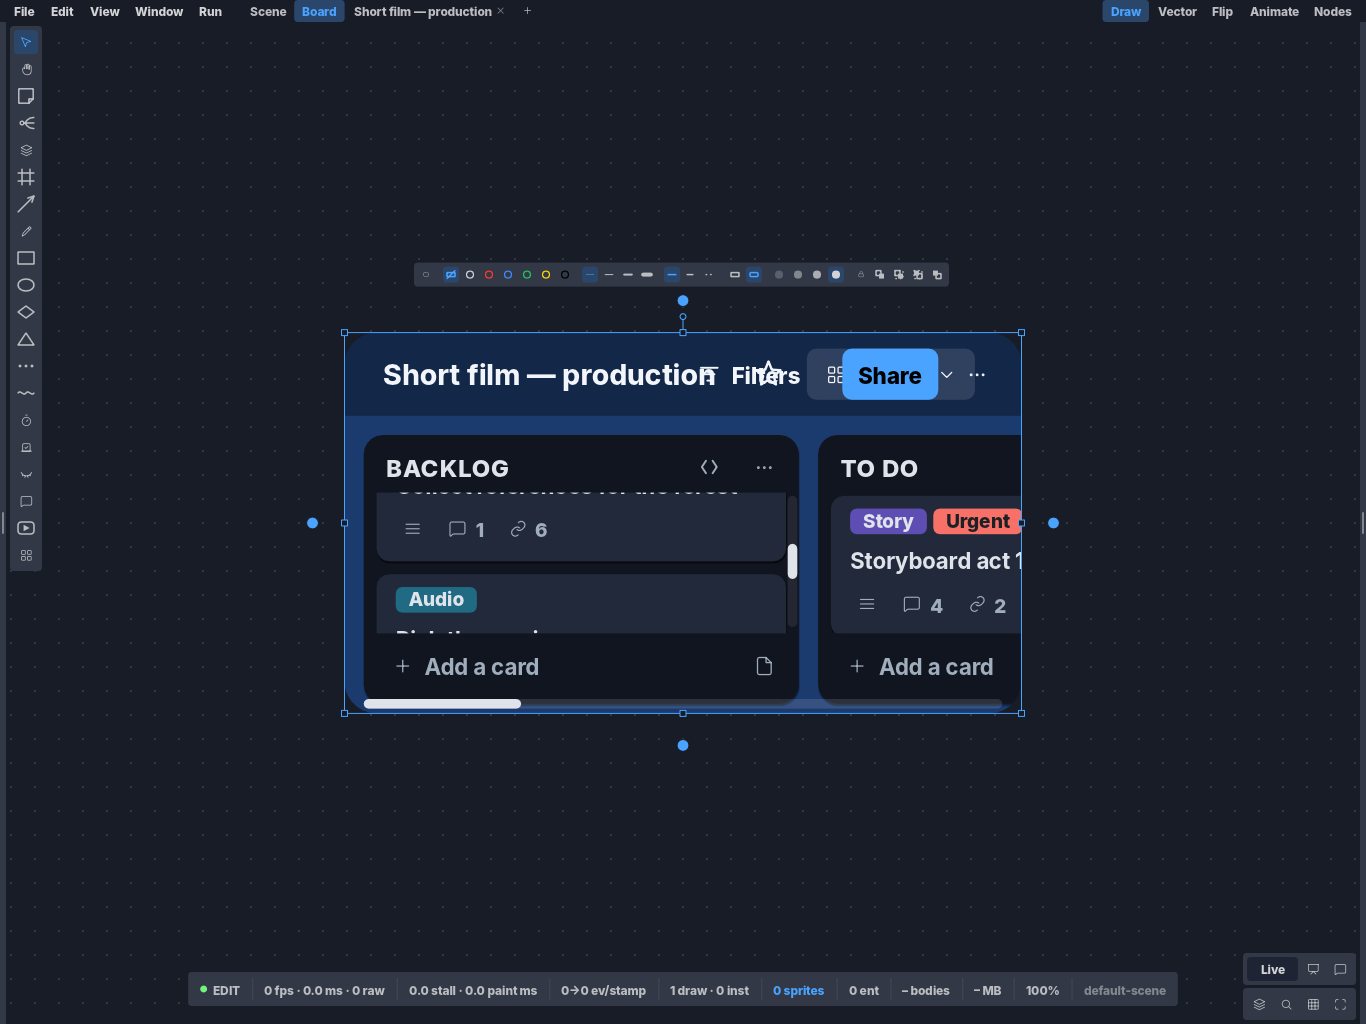
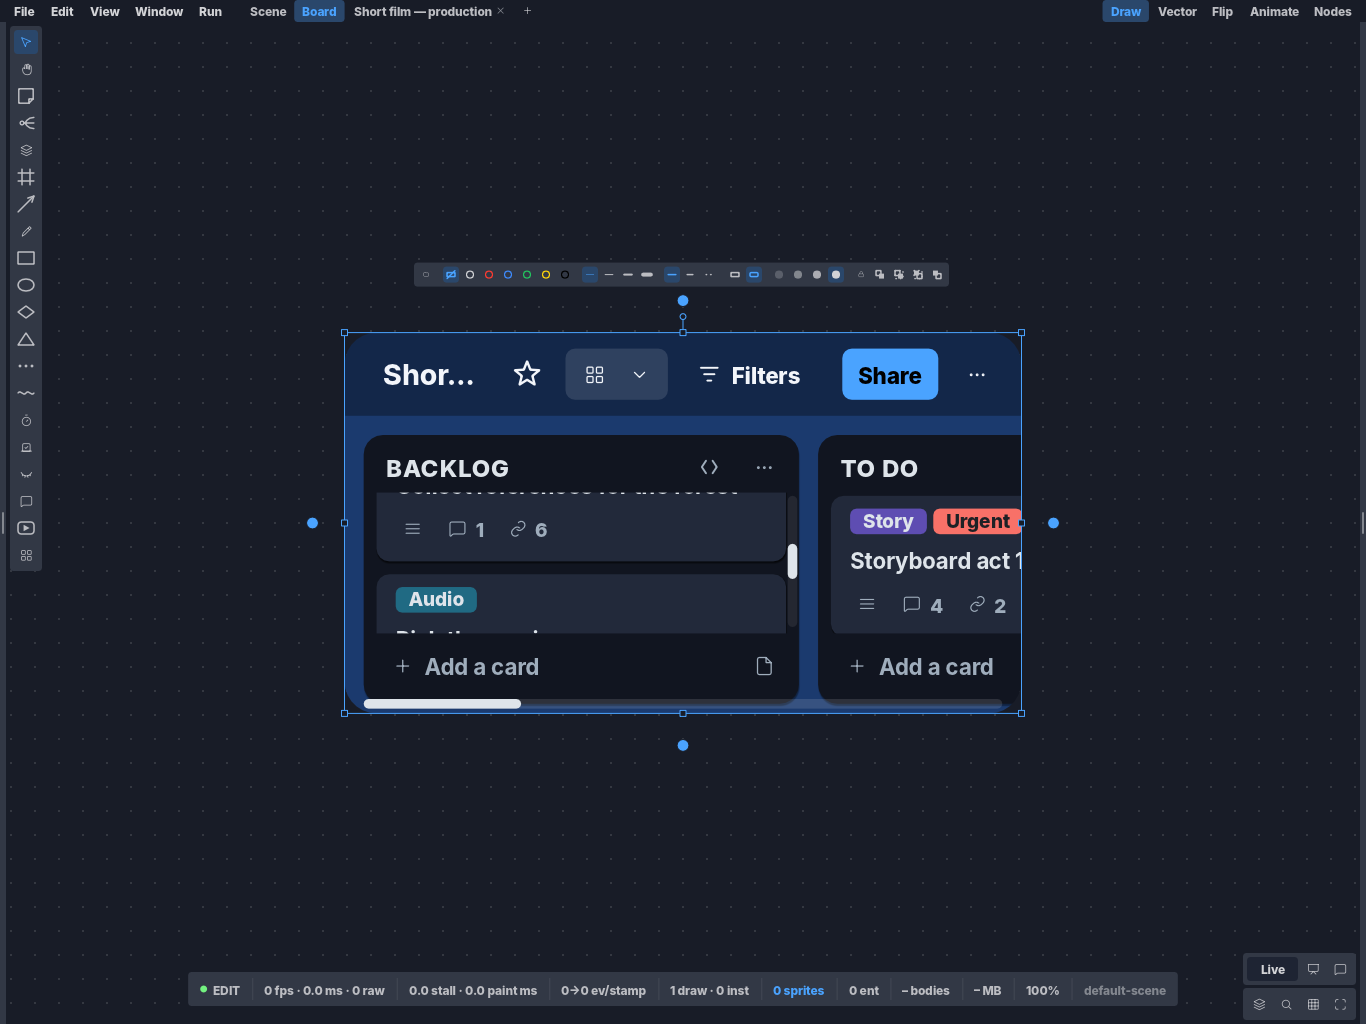
feat(TrelloClone D15b): o cartão criado numa lista longa fica à vista; cabeçalho estreito sem sobreposição
- view::reveal_composer: quando o compositor de cartão aparece ou desce (um cartão acabado de criar
  empurra-o), a lista rola até ele e o cartão logo acima (Tab::composer_seen) — smoke do dono 30/10.
- header::fit: num Kanban estreito o título encolhe (elidido) até ao «Filters» do último quadro
  (Tab::head_right — a direita não depende da esquerda, sem oscilação) e guarda HEADER_TITLE_MIN antes
  de o «Board ▾» ficar só com os ícones (Tab::views_compact). CanvasProbe::header.
- testes o_cartao_criado_numa_lista_longa_fica_a_vista e o_cabecalho_estreito_nao_sobrepoe_botoes_ao_titulo
  (ambos vermelhos sem a cura); fotos smoke/D15; ESTADO/BLOQUEIOS.

Changed region(s): [[0.3075, 0.3438, 0.5227, 0.4062], [0.6764, 0.3438, 0.7379, 0.4062], [0.5534, 0.3438, 0.6149, 0.4062]]

diff --git a/crates/ph2d-app-kanban/src/header/mod.rs b/crates/ph2d-app-kanban/src/header/mod.rs
@@ -46,6 +46,32 @@ fn text_w(ts: &mut TextSystem, s: &str) -> f32 {
 }
 
 /// ⭐ Pinta o seletor, o «Share» e os avatares; regista os alvos.
+/// A largura do «Board ▾» (`compact` = só os ícones).
+fn views_w(ts: &mut TextSystem, tab: &Tab, compact: bool) -> f32 {
+    let text = if compact {
+        0.0
+    } else {
+        text_w(ts, view_name(tab.other))
+    };
+    m::BUTTON_PAD_X * 2.0 + m::ICON_PX * 2.0 + m::LIST_ICON_GAP * 2.0 + text
+}
+
+/// ⭐ O cabeçalho estreito: a largura do título (o `title_full` medido) e se o «Board ▾» fica só com
+/// os ícones — o título guarda [`m::HEADER_TITLE_MIN`] antes de qualquer botão se sobrepor. A
+/// direita (`tab.head_right`, o «Filters» do último quadro) não depende da esquerda: sem oscilação.
+pub(crate) fn fit(ts: &mut TextSystem, tab: &Tab, title_full: f32) -> (f32, bool) {
+    let Some(right) = tab.head_right else {
+        return (title_full, false);
+    };
+    let l = &tab.layout;
+    let room = |views: f32| (right - 3.0 * m::HEADER_GAP - views - l.star.w - l.title.x).max(0.0);
+    let full = room(views_w(ts, tab, false));
+    if full >= title_full.min(m::HEADER_TITLE_MIN) {
+        return (title_full.min(full), false);
+    }
+    (title_full.min(room(views_w(ts, tab, true))), true)
+}
+
 pub(crate) fn paint(
     scene: &mut VectorScene,
     ts: &mut TextSystem,
@@ -60,7 +86,7 @@ pub(crate) fn paint(
     let mut hits = Vec::new();
     // «Board ▾» depois da estrela (aceso: é a vista à vista).
     let name = view_name(tab.other);
-    let w = m::BUTTON_PAD_X * 2.0 + m::ICON_PX * 2.0 + m::LIST_ICON_GAP * 2.0 + text_w(ts, name);
+    let w = views_w(ts, tab, tab.views_compact);
     let views = Rect::new(
         l.star.x + l.star.w + m::HEADER_GAP,
         l.star.y,
@@ -88,7 +114,9 @@ pub(crate) fn paint(
     );
     x += m::ICON_PX + m::LIST_ICON_GAP;
     let ty = text_top(ts, views.y, views.h, m::BUTTON_TEXT_PX);
-    paint_text_title_elided(ts, scene, name, x, ty, m::BUTTON_TEXT_PX, w, ink);
+    if !tab.views_compact {
+        paint_text_title_elided(ts, scene, name, x, ty, m::BUTTON_TEXT_PX, w, ink);
+    }
     let chev = Rect::new(
         views.x + views.w - m::BUTTON_PAD_X - m::ICON_PX,
         views.y,

diff --git a/crates/ph2d-app-kanban/src/view.rs b/crates/ph2d-app-kanban/src/view.rs
@@ -139,8 +139,10 @@ pub(crate) fn paint(
         others: &others,
         lod: at.lod,
     };
-    let title_w =
+    let full =
         crate::docs::title_width(ts, &k.header.name, m::HEADER_TITLE_PX) + 2.0 * m::FIELD_PAD_X;
+    let (title_w, compact) = crate::header::fit(ts, tab, full);
+    tab.views_compact = compact;
     let lifted = lifted(tab, &fronts, ts);
     let mut cache = std::mem::take(&mut tab.heights);
     let target = {
@@ -164,6 +166,7 @@ pub(crate) fn paint(
     };
     tab.heights = cache;
     clamp_scroll(tab, &target);
+    reveal_composer(tab, &target);
     let seen = crate::tab::place(tab, target.clone(), cx.dt, cx.law);
     tab.layout = seen;
     retarget(tab, &target);
@@ -302,6 +305,29 @@ fn clamp_scroll(tab: &mut Tab, target: &Layout) {
             *v = v.clamp(0.0, max_y);
         }
     }
+}
+
+/// O compositor de cartão fica à vista com o cartão logo acima dele (o acabado de criar): quando ele
+/// aparece ou desce, a lista rola até eles (smoke do dono 30/10).
+fn reveal_composer(tab: &mut Tab, target: &Layout) {
+    let now = target.lists.iter().find_map(|lb| Some((lb, lb.composer?)));
+    let key = now.map(|(lb, r)| (lb.id, r.y + r.h));
+    if key == tab.composer_seen {
+        return;
+    }
+    tab.composer_seen = key;
+    let Some((lb, r)) = now else {
+        return;
+    };
+    let above = lb.cards.iter().map(|c| c.rect.y).filter(|y| *y < r.y);
+    let top = above.reduce(f32::max).unwrap_or(r.y);
+    let vh = (lb.body.h - m::LIST_BODY_TOP - m::LIST_BODY_BOTTOM).max(0.0);
+    let s = tab.scroll_y(lb.id);
+    let low = r.y + r.h - vh;
+    let want = s.max(low).min(top.max(low));
+    tab.view
+        .scroll_y
+        .insert(lb.id, f64::from(want.clamp(0.0, layout::max_scroll_y(lb))));
 }
 
 /// A fundura `0 → 1` de `p` na faixa junto à borda `[lo, hi]` (negativa = a de baixo/esquerda).

diff --git a/crates/ph2d-app-kanban/tests/it/escrever.rs b/crates/ph2d-app-kanban/tests/it/escrever.rs
@@ -98,3 +98,51 @@ fn add_a_card_cria_no_fim_e_o_segundo_enter_depois_dele() {
         .collect();
     assert_eq!(&fim[fim.len() - 2..], ["Rig the fox", "Rig the owl"]);
 }
+
+/// Numa lista que já rola, cada cartão criado pelo compositor fica à vista com ele: a lista desce até
+/// o último criado (smoke do dono 30/10).
+#[test]
+fn o_cartao_criado_numa_lista_longa_fica_a_vista() {
+    let (mut m, id) = Mesa::cena1();
+    let todo = m.lista(id, "To Do");
+    let (add, _, _) = m.docs().probe_list_buttons(id.0, todo).expect("botões");
+    m.clica(centro(add));
+    for i in 0..8 {
+        m.escreve(&format!("Shot {i}"));
+        m.enter();
+        m.quadros(30);
+        let novo = *m.cartoes(id, todo).last().unwrap();
+        let (r, lista) = (m.rect_cartao(id, novo), m.rect_lista(id, todo));
+        assert!(
+            r.y >= lista.y && r.y + r.h <= lista.y + lista.h,
+            "«Shot {i}» à vista: {r:?} dentro de {lista:?}"
+        );
+    }
+    assert!(
+        m.docs()
+            .probe_view(id.0)
+            .unwrap()
+            .scroll_y
+            .get(&todo)
+            .copied()
+            .unwrap_or(0.0)
+            > 0.0
+    );
+}
+
+/// 📷 A lista longa depois de criar oito cartões: o último e o compositor à vista. `#[ignore]`: a placa.
+#[test]
+#[ignore = "a placa: foto para docs/TrelloClone/smoke/D15/"]
+fn d15_foto_cartao_criado_a_vista() {
+    let (mut m, id) = Mesa::cena1();
+    m.ts = ph2d_text::TextSystem::new();
+    let todo = m.lista(id, "To Do");
+    let (add, _, _) = m.docs().probe_list_buttons(id.0, todo).expect("botões");
+    m.clica(centro(add));
+    for i in 0..8 {
+        m.escreve(&format!("Shot {i}"));
+        m.enter();
+    }
+    m.quadros(40);
+    crate::j2_fotos::grava_em("D15", "lista_longa_cartao_criado", &m.cena());
+}

diff --git a/crates/ph2d-app-kanban/src/tab.rs b/crates/ph2d-app-kanban/src/tab.rs
@@ -112,6 +112,12 @@ pub(crate) struct Tab {
     pub drag: Option<Drag>,
     /// A barra de rolagem agarrada.
     pub bar: Option<crate::bars::Grab>,
+    /// O compositor de cartão do último quadro: a lista e o fundo dele (mudou = rolar até ele).
+    pub composer_seen: Option<(ListId, f32)>,
+    /// Onde começam os botões da direita do cabeçalho (o «Filters», medido ao pintar) e se o
+    /// «Board ▾» está só com os ícones: o quadro seguinte encolhe o título para lá ([`crate::header::fit`]).
+    pub head_right: Option<f32>,
+    pub views_compact: bool,
     pub field: Option<Field>,
     /// O cartão com o foco do teclado (o anel).
     pub focus: Option<CardId>,
@@ -174,6 +180,9 @@ impl Tab {
             press: None,
             drag: None,
             bar: None,
+            composer_seen: None,
+            head_right: None,
+            views_compact: false,
             field: None,
             focus: None,
             menu: None,

diff --git a/crates/ph2d-app-kanban/src/docs.rs b/crates/ph2d-app-kanban/src/docs.rs
@@ -26,6 +26,8 @@ pub struct CanvasProbe {
     pub field: Option<String>,
     /// O «…» do cabeçalho e se há um menu aberto.
     pub board_menu: (Rect, bool),
+    /// As caixas do cabeçalho pintadas: o título, a estrela, o «…» e os botões da W6.
+    pub header: Vec<Rect>,
 }
 
 /// O id da aba «Kanbans» (o início): nenhum `KanbanId` chega lá (contam de 1).
@@ -368,6 +370,11 @@ impl KanbanDocs {
             back: t.back.as_ref().map(|b| b.card),
             field: t.field.as_ref().map(|f| f.text.clone()),
             board_menu: (t.layout.board_menu, t.menu.is_some()),
+            header: [t.layout.title, t.layout.star, t.layout.board_menu]
+                .into_iter()
+                .chain(t.w6.hits.borrow().iter().map(|h| h.0))
+                .filter(|r| r.y < t.layout.header.y + t.layout.header.h)
+                .collect(),
         })
     }
 

diff --git a/crates/ph2d-app-kanban/tests/it/canvas_entrada.rs b/crates/ph2d-app-kanban/tests/it/canvas_entrada.rs
@@ -376,3 +376,22 @@ fn d15_foto_barras_e_meia_distancia() {
     d.quadros(20);
     foto(&mut d, "quadro_meia_distancia");
 }
+
+/// Num Kanban estreito (ampliado por dentro) o título encolhe para os botões do cabeçalho caberem:
+/// nenhuma caixa se sobrepõe a outra (smoke do dono 30/10, foto `D15/quadro_barras.png`).
+#[test]
+fn o_cabecalho_estreito_nao_sobrepoe_botoes_ao_titulo() {
+    let (mut d, _, el) = activo();
+    d.quadros(3);
+    let h = d.docs().probe_canvas(el.0).unwrap().header;
+    assert!(
+        h.len() >= 5,
+        "título, estrela, «…», vistas, Share, Filters: {h:?}"
+    );
+    for (i, a) in h.iter().enumerate() {
+        for b in &h[i + 1..] {
+            let fora = a.x + a.w <= b.x || b.x + b.w <= a.x || a.y + a.h <= b.y || b.y + b.h <= a.y;
+            assert!(fora, "{a:?} sobrepõe {b:?}");
+        }
+    }
+}

diff --git a/crates/ph2d-app-kanban/src/w6/mod.rs b/crates/ph2d-app-kanban/src/w6/mod.rs
@@ -292,6 +292,7 @@ pub(crate) fn paint(
     tab.w6.hits.borrow_mut().clear();
     tab.w6.sheets.borrow_mut().clear();
     tab.w6.dialog_from.set(None);
+    tab.head_right = None;
     if lod != KanbanLod::High {
         return;
     }
@@ -306,6 +307,7 @@ pub(crate) fn paint(
             head.right,
         ),
     );
+    tab.head_right = Some(anchors.0.x);
     let area = above(tab.layout.area, floor);
     if tab.w6.quick.is_some() {
         quick_edit::paint(scene, ts, theme, k, tab);

diff --git a/crates/ph2d-app-kanban/src/metrics.rs b/crates/ph2d-app-kanban/src/metrics.rs
@@ -8,6 +8,8 @@ pub(crate) const HEADER_PAD_L: f32 = 16.0;
 pub(crate) const HEADER_PAD_R: f32 = 12.0;
 pub(crate) const HEADER_GAP: f32 = 8.0;
 pub(crate) const HEADER_TITLE_PX: f32 = 18.0;
+/// O título do Kanban guarda isto antes de o «Board ▾» perder o texto (o cabeçalho estreito).
+pub(crate) const HEADER_TITLE_MIN: f32 = 140.0;
 pub(crate) const BUTTON_H: f32 = 32.0;
 pub(crate) const BUTTON_RADIUS: f32 = 6.0;
 pub(crate) const BUTTON_PAD_X: f32 = 10.0;

diff --git a/docs/TrelloClone/loop/ESTADO.md b/docs/TrelloClone/loop/ESTADO.md
@@ -1,5 +1,7 @@
 # ESTADO da missão autónoma W2b→W11 (coordenador relê depois de cada compactação)
 
+> ⭐ **30/10 — D15b** (smoke do dono: D15 aprovado; «ao criar um card numa lista grande, o scroll mostra o último criado»): `view::reveal_composer` — quando o compositor aparece ou desce, a lista rola até ele e o cartão logo acima (`Tab::composer_seen`); teste `o_cartao_criado_numa_lista_longa_fica_a_vista` (vermelho sem a cura). E o cabeçalho estreito (o aberto do D15): `header::fit` — o título encolhe até ao «Filters» do último quadro (`Tab::head_right`, que não depende da esquerda: sem oscilação) e guarda `HEADER_TITLE_MIN` antes de o «Board ▾» ficar só com ícones (`Tab::views_compact`); teste `o_cabecalho_estreito_nao_sobrepoe_botoes_ao_titulo` (vermelho sem a cura); fotos `D15/quadro_barras.png`, `D15/lista_longa_cartao_criado.png`.
+>
 > ⭐ **30/10 — D15 smoke do dono** (A: «o ícone do calendário parece um relógio»; C: «o "…" do Kanban no Quadro não funciona»; «barra de scroll em ambos»): ícone NOVO `IconId::Calendar` (Lucide, `docs/design/icons/calendar.svg`) no campo Date; o «…»/estrela/botões W6 do cabeçalho e as barras respondem ao 1.º clique no Quadro (`KanbanElementInput::button_at`; o fundo continua seleccionar → entrar); a meia distância (`KanbanLod::Mid`, onde não se entra) os botões do cabeçalho e das listas e as barras NÃO se pintam (`Tab::buttons`) — eram controlos mortos; barras de rolagem do quadro (margem de baixo) e de cada lista (margem direita) na aba e no Quadro: `AxisBar` no editor-core (a `ScrollList` passou a usá-la — uma lei), `bars.rs` na app-kanban (calha, carregar = salta e agarra, arrastar). Tecto: a rede da partilha (`share/net_io.rs` + `Seen`/`seen_of`, ~540 linhas) MUDOU para a crate nova `ph2d-kanban-live` (o transporte; a `ph2d-kanban-sync` continua pura) — app-kanban 31 6xx. Testes `o_menu_do_cabecalho_abre_ao_primeiro_clique_no_quadro`, `as_barras_de_rolagem_rolam_a_lista_e_o_quadro`, `a_horizontal_bar_is_the_vertical_one_on_its_side`; fotos `smoke/D15/`, `smoke/D14/verso_campos.png`. Visto e por fazer: no Kanban ampliado num elemento estreito os botões do cabeçalho sobrepõem-se ao título (foto `D15/quadro_barras.png`) — BLOQUEIOS.
 >
 > ⭐ **30/10 — onda dos abertos sem o dono** (um lote): (1) o `DatePicker` do editor-core ganhou o modo de UMA data (`DatePicker::due_only`, `DatePickerLayout::of_mode`/`preferred_height_for`: sem início, sem a marca da entrega, sem lembrete; o rótulo da caixa é o nome do campo) — usado pelo campo Date e pelo item da checklist (`back/click.rs::dates_pop`, `Picker::due_only`); (2) a consola do editor de scripts expande o TAB do `print` como o editor (`ph2d-panel-code` `console::shown` → `DisplayLine::build`; `Band::tab_width`) — o «‖» saiu; (3) D11 tinha caso REAL: o Kanban no Quadro de LONGE (nível baixo: a família recusa `KanbanLod::Low`) pintava o fundo de imagem azul liso — gancho novo `KanbanPainter::paint_background` (a família desenha a imagem, `bg::Look::paint_on_board`). Tecto da app-kanban: a mesma foto-na-placa copiada 4× nos testes virou UMA (`j2_fotos::grava`) e o `cover_dest` duplicado do fundo saiu. Testes `a_due_only_picker_*`, `a_print_tab_*`, `far_away_an_image_background_*`, `d14_the_date_field_*`; fotos `smoke/D14/verso_calendario_do_campo.png`, `smoke/D11/quadro_de_longe_imagem_*`, `smoke/tutorial/8_2_*` (PDF regenerado).

diff --git a/docs/TrelloClone/loop/BLOQUEIOS.md b/docs/TrelloClone/loop/BLOQUEIOS.md
@@ -4,4 +4,3 @@
 |---|---|---|
 | W10 | JSON real do Trello do dono | o dono exporta um quadro dele (Menu → Export as JSON) e ele vira a fixture e gate |
 | W5 | Kanban ao vivo: furo do NAT entre DUAS máquinas reais | provado só em 127.0.0.1 (dois processos, LAN e QUIC sem ponto de encontro: `ph2d-kanban-sync` `loopback::two_processes_converge_*`); falta a corrida em duas redes de casa — a mesma pendência do Quadro (ADR-0187, «furo real por medir») |
-| D15 | Cabeçalho do Kanban no Quadro num elemento ESTREITO (ou ampliado por dentro): os botões (Filters, vistas, Share, estrela) sobrepõem-se ao título | o cabeçalho não encolhe/esconde botões quando falta largura (foto `smoke/D15/quadro_barras.png`) | `header::paint`, `w6::filter_bar::header`, `layout::header` |
